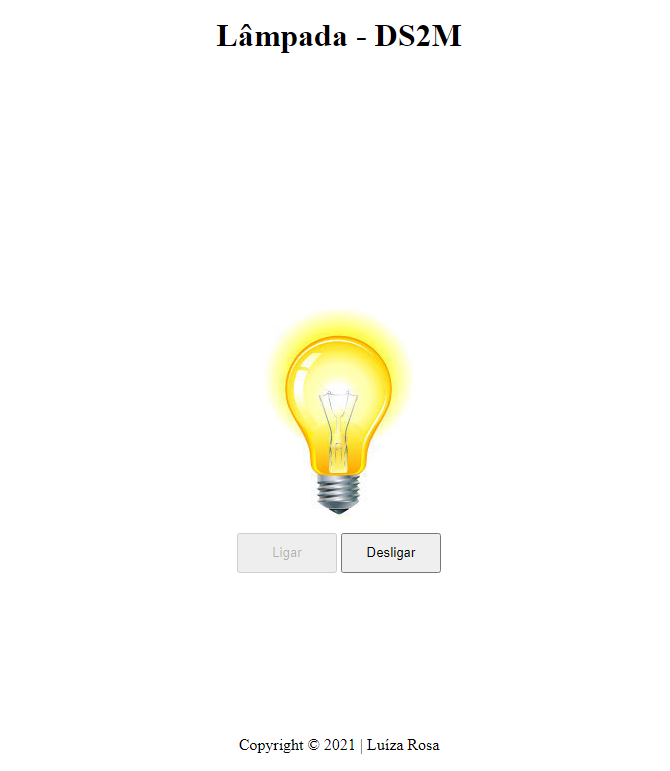
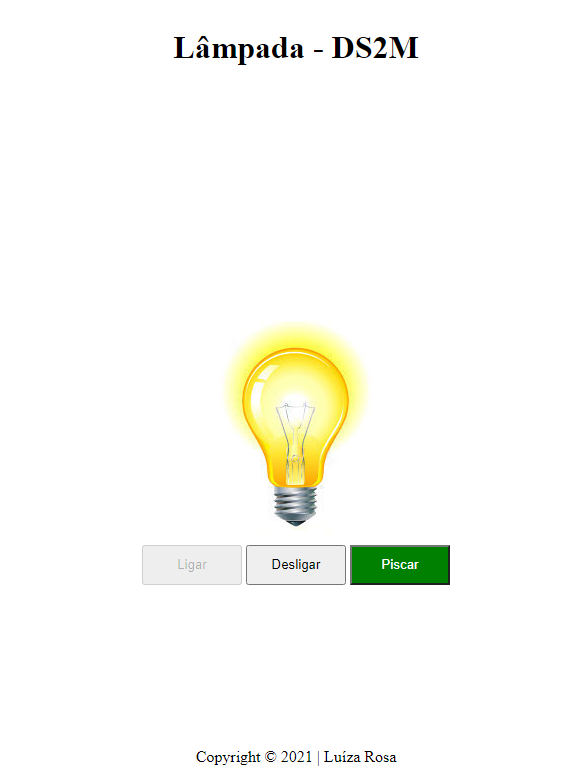
Trocar cor do button. Fixed #1

diff --git a/lampada.js b/lampada.js
@@ -54,9 +54,12 @@ function piscar(){
     idLigar = setInterval(ligarLampada, 500)
     idDesligar = setInterval(desligarLampada, 1000)
     botaoPiscar.textContent = "Parar"
+    botaoPiscar.style.backgroundColor = "red";
+
     }else{
         pararPiscar()
         botaoPiscar.textContent = "Piscar"
+        botaoPiscar.style.backgroundColor = "green";
     }
 }
 

diff --git a/style.css b/style.css
@@ -35,6 +35,11 @@ button{
     cursor: pointer;
 }
 
+#piscar{
+    background-color: green;
+    color: white;
+}
+
 footer{
     height: 50px;
     justify-content: center;
